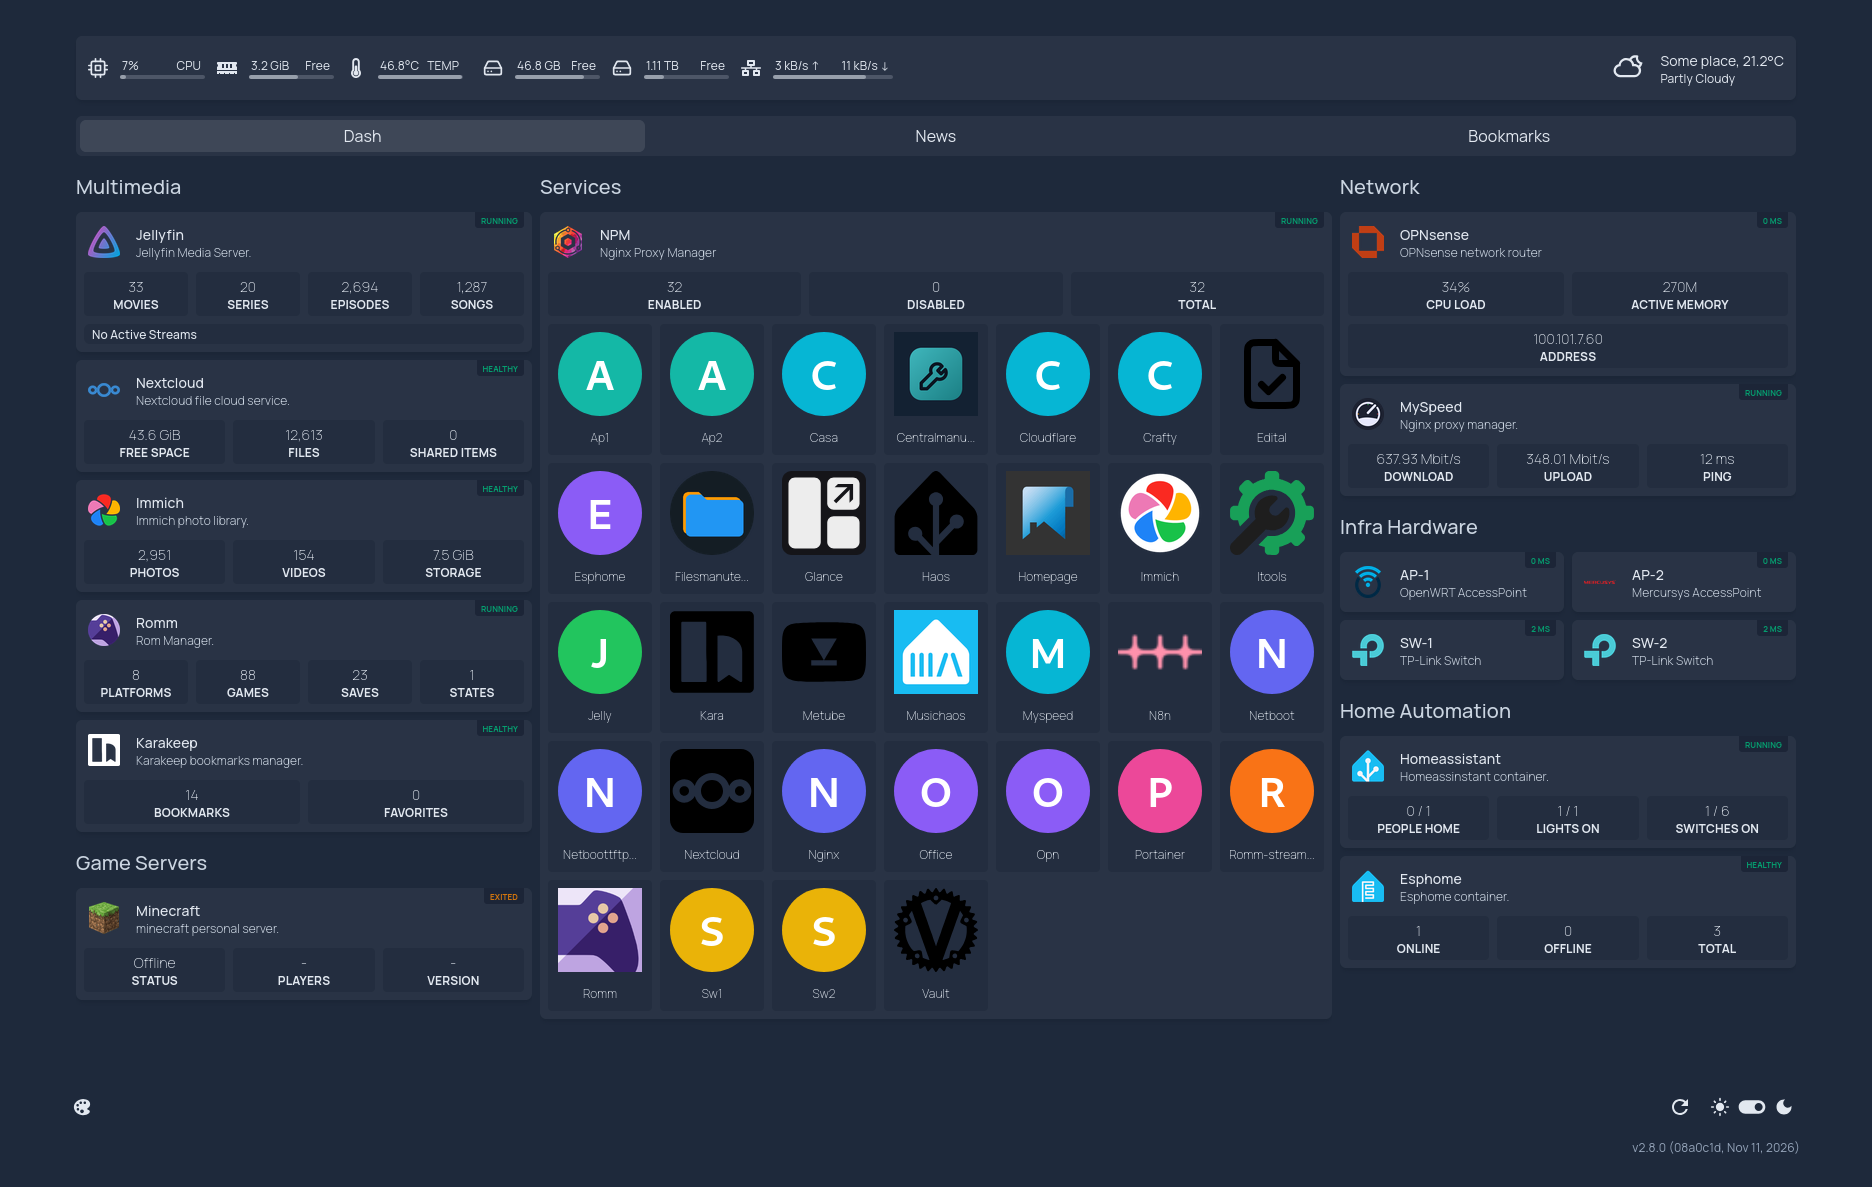
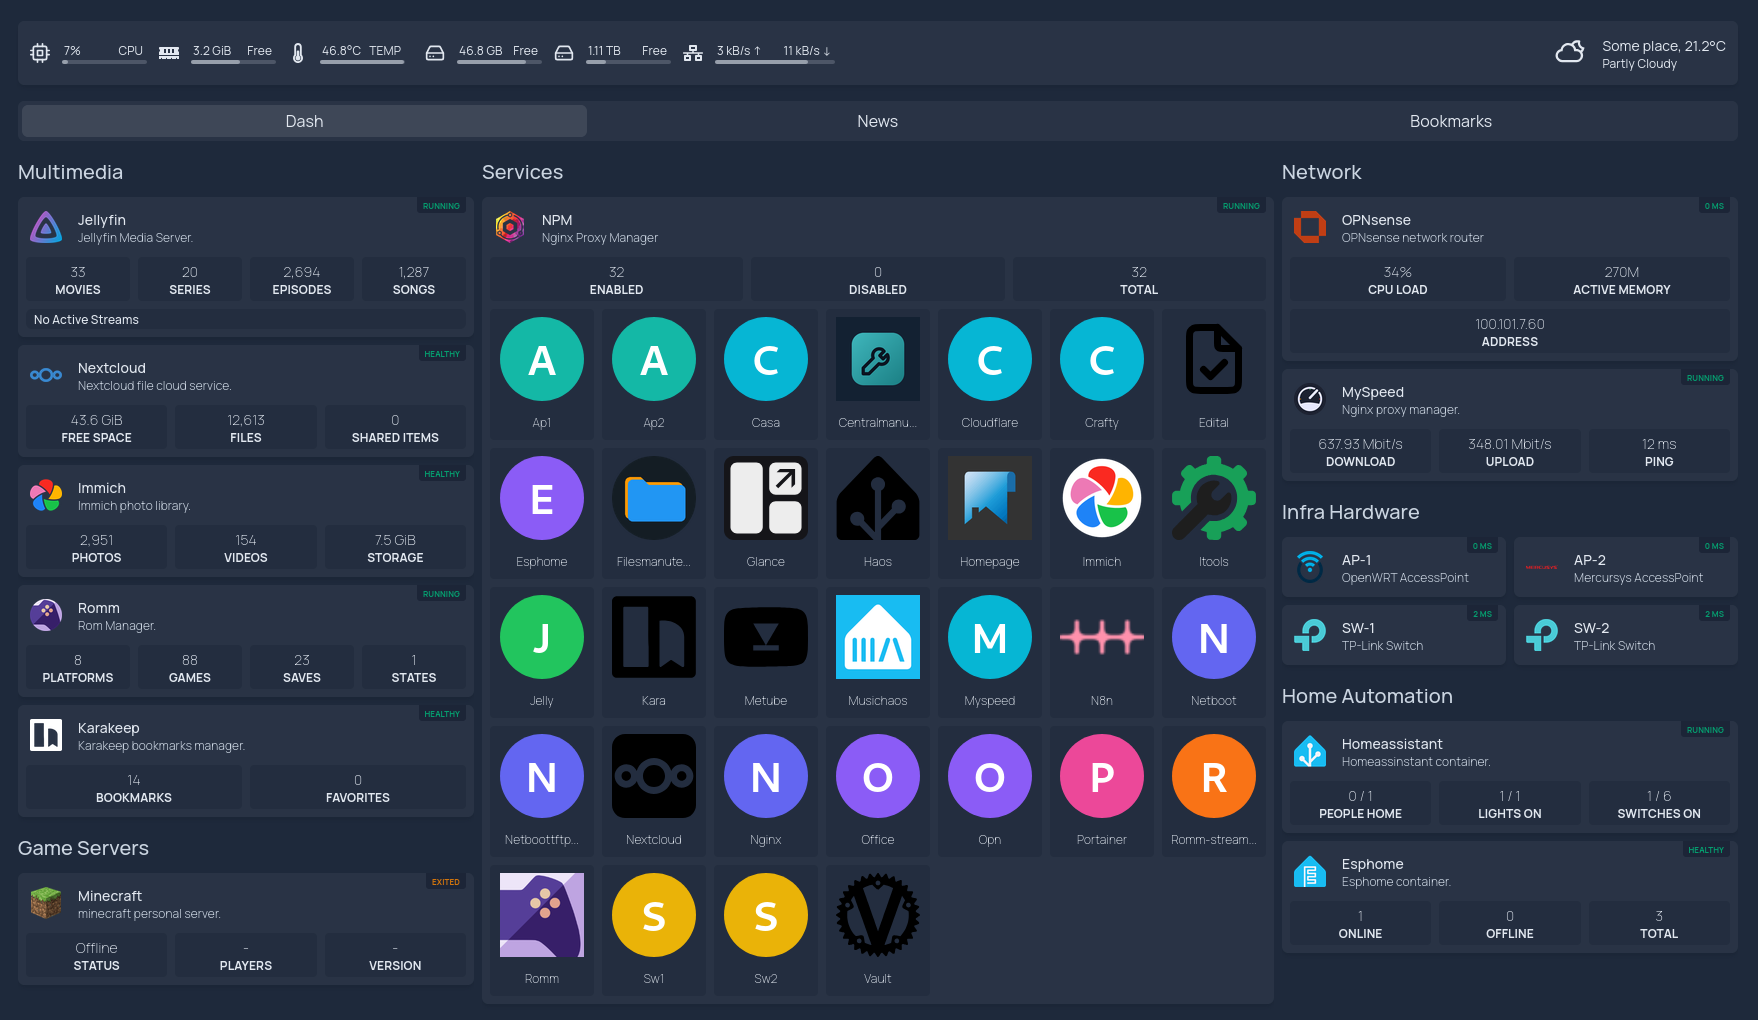
Adding customizing variable based system to custom.js

diff --git a/custom.js b/custom.js
@@ -1,15 +1,24 @@
-const icon_scraper_api = `https://geticon.dev/?url=` //Set a custom icon_scraper api to fetch your host icons
+// Enable/Disable any personalization by those variable keys
+const configurations = {
+  load_customizations: true,    // Completely disables all personalizations {true / false}
+  
+  nginx_section_id: "services", // Target section to apply customizations (need match the id: tag on YAML) {string}
+  subdomains_as_name: true,     // Enable using the subdomain of your domain url as a item name {true / false}
+  domain_name_filter: [         // Fill this list with your domains to help setting subdomain as name {Array[string]}
+    "example.com",
+    "internal.example.net",
+  ],
 
-//This is used to polish your proxy hosts view, it uses the subdomain inside your proxy url as the item name
-const domain_name_filter = [
-  "example.com",
-  "internal.example.net",
-]
+  fetch_domain_icons: true,     // Enables icon scraping using the api url set bellow {true / false}
+  icon_scraper_api: "https://geticon.dev/?url=", // Icon scraper API url {url}
+  
+  larger_nginx_section: true,   // It sets the nginx_section_id element to be slightly larger then the rest {true / false}
+  proxy_host_layout: "grid",    // It sets the nginx_section_id proxy host list layout between {list, grid, compact-list}
+  icon_size: "50px",            // It sets the domain icon size for `list` and `compact-list` layouts {css supported size (px, em, in...)}
+}
 
-// id of the section where your proxy hosts are fetched and listed
-const services_api_list_id = '#services'
-const TEMPO_ESPERA_MS = 100; // Debounce time to wait for changes on the list
-const monitor = { observador: null, // Main monitor function, watching for changes on body
+const debounce_timeout = 100; // Debounce time to wait for changes on the list
+const monitor = {  // Main monitor function, watching for changes on body
   /* This function watches constantly the changes on body and at each change
     it ckecks if the nginx section still exists. If nginx section exists, a
     new observer is set on the element.
@@ -21,12 +30,12 @@ const monitor = { observador: null, // Main monitor function, watching for chang
     necessary to monitor the entire body for changes and made it restart the
     observer if it gets lost.
   */
-  
+  observador: null,
   iniciar() {
     if (!this.observador) {
       this.observador = new MutationObserver((mutations) => {
         // Verifica se o elemento existe na tela atual
-        const elementoAtual = document.querySelector(services_api_list_id);
+        const elementoAtual = document.querySelector("#" + configurations.nginx_section_id);
         if (!elementoAtual) return;
 
         const mudouAlgoNoAlvo = mutations.some((m) => 
@@ -63,7 +72,7 @@ const callback = () => {
     window.phc_cooldown = setTimeout(() => {
         monitor.pausar()
         processarMudancaFinal()
-    }, TEMPO_ESPERA_MS);
+    }, debounce_timeout);
 };
 
 /* This function starts the changing process, it sets wich items are going to be changend
@@ -72,8 +81,9 @@ and waits for all items to load if the list was not fully loaded yet.
 */
 async function processarMudancaFinal() { console.log("Atualizando lista de proxies")
     // Código pra ser executado toda vez que os proxy hosts forem atualzados
-    const proxies_item = document.querySelector("#services > div > div:nth-child(3) > div")
-    var   proxies_list = proxies_item.children
+    const nginx_section = document.getElementById(configurations.nginx_section_id)
+    const proxies_item  = nginx_section.querySelector("#services > div > div:nth-child(3) > div")
+    var   proxies_list  = proxies_item.children
     
     while (proxies_list.length <= 1) {
       await new Promise(r => setTimeout(r, 250)); //Sleep for 250ms waiting the api to properly load
@@ -81,9 +91,14 @@ async function processarMudancaFinal() { console.log("Atualizando lista de proxi
     }
 
     process_proxy_block(proxies_list)
-    
-    // Adding a custom css to structure all of the items
-    // proxies_item.classList.add("test-proxy-hosts-list")    
+
+    if (configurations.larger_nginx_section) nginx_section.classList.add("nginx-section")
+
+    if (!["grid", "compact-list"].includes(configurations.proxy_host_layout)) return
+
+    proxies_item.classList.add("proxy-hosts-grid-list")
+    configurations.proxy_host_layout === "compact-list" && proxies_item.style
+      .setProperty("grid-template-columns", "repeat(auto-fill, minmax(150px, 1fr))")
 }
 
 /* This is the final function, it start looping through all items inside the proxies list
@@ -92,10 +107,11 @@ and alters the "name" field, filtering your domain out of it. For exemmple:
       A proxy entry with:                 "subdomain.example-domain.com"
       With a domain_name_filter set to:   "example-domain.com"
       Will return the following name:     "subdomain"
+(if no domain list is set, this script will split the domain by "." and use the first match)
 
   And the final part of this function uses a custom API to fetch icons for your proxy hosts
 by default, I suggest the "https://geticon.dev" API, the API was able to fetch a good amount
-of icons for mys proxy domains and it sets a placeholder icon displaying the fist letter of
+of icons for my proxy domains and it sets a placeholder icon displaying the fist letter of
 the urls it couldn't find. And when the API fails to fetch anything, a placeholder icon is set.
 The icon was extracted from "https://cdn.jsdelivr.net/npm/@mdi/svg@latest/svg/server-network.svg".
 */
@@ -105,23 +121,43 @@ async function process_proxy_block(div_node) {
 
   for (let item of div_node) {
     const name_it = item.querySelector("[data-custom_name_shift=true]") || item.firstChild, nametxt = name_it.innerHTML
+    const icon_lk = configurations.icon_scraper_api !== "" ? configurations.icon_scraper_api + item.href : null
     const item_ic = item.querySelector("[data-custom_img_loaded=true]") || document.createElement("img")
+    
+    // Adding a custom css to structure all of the items
+    switch (configurations.proxy_host_layout) {
+      case "grid":
+        item.classList.add("proxy-hosts-grid-item")
+      break
+      
+      default:
+        item_ic.style.width = configurations.icon_size
+      break
+    }
 
     name_it.dataset.custom_name_shift = true
     item_ic.dataset.custom_img_loaded = true
-    item_ic.setAttribute("src", icon_scraper_api + item.href)
+    item_ic.setAttribute("src", icon_lk)
     item_ic.setAttribute("onerror", `this.setAttribute("src", "${not_found}")`)
-    
-    const new_nametxt = nametxt.charAt(0).toUpperCase() + nametxt.slice(1)
-      .replace(domain_name_filter.find(domain => nametxt.includes(domain)), "")
-      .replaceAll(".", "")
 
-    name_it.innerHTML = new_nametxt.length < 11 ?
-      new_nametxt : new_nametxt.slice(0, 11) + "..."
+    if (configurations.subdomains_as_name) { let new_nametxt
+      const captalize_first_letter = nametxt.charAt(0).toUpperCase() + nametxt.slice(1)
 
-    item.insertBefore(item_ic, item.firstChild)
+      if (configurations.domain_name_filter.length > 0){
+        new_nametxt = captalize_first_letter
+          .replace(configurations.domain_name_filter.find(domain => nametxt.includes(domain)), "")
+          .replaceAll(".", "")
+      } else new_nametxt = captalize_first_letter.split(".")[0]
+      
+      if (["grid", "compact-list"].includes(configurations.proxy_host_layout)) {
+        name_it.innerHTML = new_nametxt.length < 11 ?
+          new_nametxt : new_nametxt.slice(0, 11) + "..."
+      }
+    }
+
+    configurations.fetch_domain_icons && item.insertBefore(item_ic, item.firstChild)
   } monitor.iniciar()
 }
 
 // Starts the document.body monitor
-monitor.iniciar()
+configurations.load_customizations && monitor.iniciar()

diff --git a/custom.css b/custom.css
@@ -1,37 +1,31 @@
 /* Setting custom size to the proxy host section */
-@media screen and (min-width: 1280px) {
-    /* Tamanho regular 397.333 */
-    #services {
+.nginx-section {
+    @media screen and (min-width: 1280px) {
+        /* Tamanho regular 397.333 */
         min-width: 450.666px !important;
     }
-}
 
-@media screen and (min-width: 1536px) {
-    /* Tamanho regular 482.667 */
-    #services {
+    @media screen and (min-width: 1536px) {
+        /* Tamanho regular 482.667 */
         min-width: 621.32445px !important;
     }
-}
 
-@media screen and (min-width: 1792px) {
-    /* Tamanho regular 568 */
-    #services {
+    @media screen and (min-width: 1792px) {
+        /* Tamanho regular 568 */
         min-width: 792px !important;
     }
 }
 
 /* Applying a grid layout to the proxy hosts list */
-#services > div > div:nth-child(3) > div, .proxy-hosts-list {
-    /* display: flex;
-    flex-direction: row;
-    flex-wrap: wrap; */
+/* #services > div > div:nth-child(3) > div, */
+.proxy-hosts-grid-list {
     display: grid;
-    /* Cria colunas rigorosamente iguais de no mínimo 250px */
     grid-template-columns: repeat(auto-fill, minmax(100px, 1fr));
 }
-
+ 
 /* Ajusting proxy host items to fit thier site favicon */
-#services > div > div:nth-child(3) > div > a, .proxy-hosts-list-item {
+/* #services > div > div:nth-child(3) > div > a, */
+.proxy-hosts-grid-item {
     display: grid;
     grid-template-columns: 100%;
     grid-template-rows: repeat(auto-fill, minmax(100px, 1fr));

diff --git a/README.md b/README.md
@@ -10,14 +10,7 @@ In addition to organizing services, the project includes a customization of the 
 
 ## Screenshots
 
-Add images of the dashboard in operation here. One suggestion is to create the `docs/images/` folder in the repository and save the screenshots there.
-
-### Dashboard overview "Native" (Option without custom.css and custom.js)
-This is a version that uses only the YAML configuration files, also known as the "native version". It is a simple version intended to present my configurations without creating conflicts with future updates to the [Homepage](https://gethomepage.dev/) project.
-
-![Dashboard overview](docs/images/homepage-proxy-hosts-vertical-list.png)
-
-### Dashboard overview (Customization option using custom.css and custom.js)
+### Dashboard overview "Grid" (Customization option using custom.css and custom.js)
 This is my idea of how a dashboard should work, presenting an interface very similar to those offered by the [CasaOS](https://casaos.zimaspace.com/) and [ZimaOS](https://www.zimaspace.com/) projects, while adding a grid-style list to display all the services I host using [Nginx Proxy Manager](https://nginxproxymanager.com/).
 
 ![Nginx Proxy Manager Proxy Hosts in a grid](docs/images/homepage-proxy-hosts-grid-list-with-icons.png)
@@ -25,7 +18,9 @@ This is my idea of how a dashboard should work, presenting an interface very sim
 ### Widgets and server information
 I chose to display two sections on the sides, listing all the services I use, their statistics, and the network devices in my infrastructure.
 
-![Widgets and server information](docs/images/homepage-services-widgets.png)
+| Multimedia section | Network section |
+|---|---|
+| ![Widgets and server information](docs/images/homepage-services-widgets-1.png) | ![Widgets and server information](docs/images/homepage-services-widgets-2.png) |
 
 ### News feed using RSS
 I separated the infrastructure dashboard and my news feed into tabs. In the news feed, I added Brazilian tech news websites.
@@ -147,30 +142,134 @@ The API integration provides the list items. The grid layout and icons are imple
 
 The script:
 
-1. Observes document changes using `MutationObserver` and monitors the area identified by `#services`.
-2. Waits for the Proxy Hosts list to load and applies the changes after a short period with no new changes.
-3. Simplifies the name displayed for each host by removing the suffixes configured in `domain_name_filter` and the dots in the text.
-4. When the name has 11 characters or more, keeps the first 11 and adds `...`.
-5. Requests an icon for each address using the service configured in `icon_scraper_api`.
+1. Observes document changes using `MutationObserver` and monitors the section defined in `nginx_section_id`.
+2. Waits for the Proxy Hosts list to load and applies the changes after a short period with no new changes (`debounce_timeout`, defined in the script itself).
+3. Can simplify the name displayed for each host by using the subdomain and removing the suffixes configured in `domain_name_filter`.
+4. In the `grid` and `compact-list` layouts, when the name has 11 characters or more, keeps the first 11 and adds `...`.
+5. When enabled, requests an icon for each address using the service configured in `icon_scraper_api`.
 6. Uses a fallback SVG icon when the image cannot be loaded.
+7. Can increase the width of the Proxy Hosts section and organize the items in the `list`, `grid`, or `compact-list` layouts.
 
-The default address configured for retrieving icons is `https://geticon.dev/?url=`. This address can be changed in the `icon_scraper_api` variable to use another compatible service.
+#### Configuration options
 
-The `domain_name_filter` list contains the domain suffixes that the script removes from displayed names. Edit this list to match the domains used in your installation. For example:
+The options are located in the `configurations` object at the beginning of the `custom.js` file:
 
+| Option | Purpose |
+|---|---|
+| `load_customizations` | Enables or disables all script customizations. |
+| `nginx_section_id` | ID of the Homepage section that will receive the customizations. Must match the ID configured in the YAML. |
+| `subdomains_as_name` | Uses the subdomain as the Proxy Host name in the `grid` and `compact-list` layouts. |
+| `domain_name_filter` | List of domain suffixes removed when building the name. If the list is empty, the script considers only the part before the first dot. |
+| `fetch_domain_icons` | Enables or disables the inclusion of domain icons. |
+| `icon_scraper_api` | Base address of the service used to fetch icons. |
+| `larger_nginx_section` | Applies a CSS class to make the Proxy Hosts section larger than the others. |
+| `proxy_host_layout` | Defines how items are displayed: `list`, `grid`, or `compact-list`. |
+| `icon_size` | Defines the size of icons in the `list` and `compact-list` layouts. Accepts CSS units such as `px` and `em`. |
+
+### Grid Layout Exemple
+![Grid Layout Exemple](docs/images/grid-list-layout-example.png)
+
+#### Code:
 ```javascript
-const domain_name_filter = [
-  "example.com",
-  "internal.example.net",
-]
+const configurations = {
+    load_customizations: true,
+    
+    nginx_section_id: "services",
+    subdomains_as_name: true,
+    domain_name_filter: [        
+        "example.com",
+        "internal.example.net",
+    ],
+
+    fetch_domain_icons: true,
+    icon_scraper_api: "https://geticon.dev/?url=",
+    
+    larger_nginx_section: true,
+    proxy_host_layout: "grid",
+    icon_size: "30px",
+}
 ```
+
+### Compact List Layout Exemple
+![Compact List Layout Exemple](docs/images/compact-list-layout-example.png)
+
+#### Code:
+```javascript
+const configurations = {
+    load_customizations: true,
+    
+    nginx_section_id: "services",
+    subdomains_as_name: true,
+    domain_name_filter: [        
+        "example.com",
+        "internal.example.net",
+    ],
+
+    fetch_domain_icons: true,
+    icon_scraper_api: "https://geticon.dev/?url=",
+    
+    larger_nginx_section: true,
+    proxy_host_layout: "compact-list",
+    icon_size: "50px",
+}
+```
+
+### List Layout Exemple
+![Vertical List Layout Exemple](docs/images/vertical-list-layout-example.png)
+
+#### Code:
+```javascript
+const configurations = {
+    load_customizations: true,
+    
+    nginx_section_id: "services",
+    subdomains_as_name: false,
+    domain_name_filter: [        
+        "example.com",
+        "internal.example.net",
+    ],
+
+    fetch_domain_icons: true,
+    icon_scraper_api: "https://geticon.dev/?url=",
+    
+    larger_nginx_section: true,
+    proxy_host_layout: "list",
+    icon_size: "30px",
+}
+```
+
+### List without icons nither sudomain to name convertion Layout Exemple
+![Vertical List Layout Exemple](docs/images/vertical-list-layout-example-no-icons.png)
+
+#### Code:
+```javascript
+const configurations = {
+    load_customizations: true,
+    
+    nginx_section_id: "services",
+    subdomains_as_name: false,
+    domain_name_filter: [        
+        "example.com",
+        "internal.example.net",
+    ],
+
+    fetch_domain_icons: false,
+    icon_scraper_api: "https://geticon.dev/?url=",
+    
+    larger_nginx_section: true,
+    proxy_host_layout: "list",
+    icon_size: "30px",
+}
+```
+
+The default address configured for retrieving icons is `https://geticon.dev`. This address can be changed in `icon_scraper_api` to use another compatible service. To disable icon loading, set `fetch_domain_icons: false`.
 
 ### CSS (`custom.css`)
 
 The CSS:
 
 - Adjusts the minimum width of the `#services` section at different screen widths.
-- Turns the Proxy Hosts list into a responsive grid with columns at least 100 px wide.
+- In grid layouts, turns the Proxy Hosts list into a responsive grid with columns at least 100 px wide.
 - Arranges each item vertically to accommodate the icon and host name.
 - Adjusts image sizes and item spacing.
 
